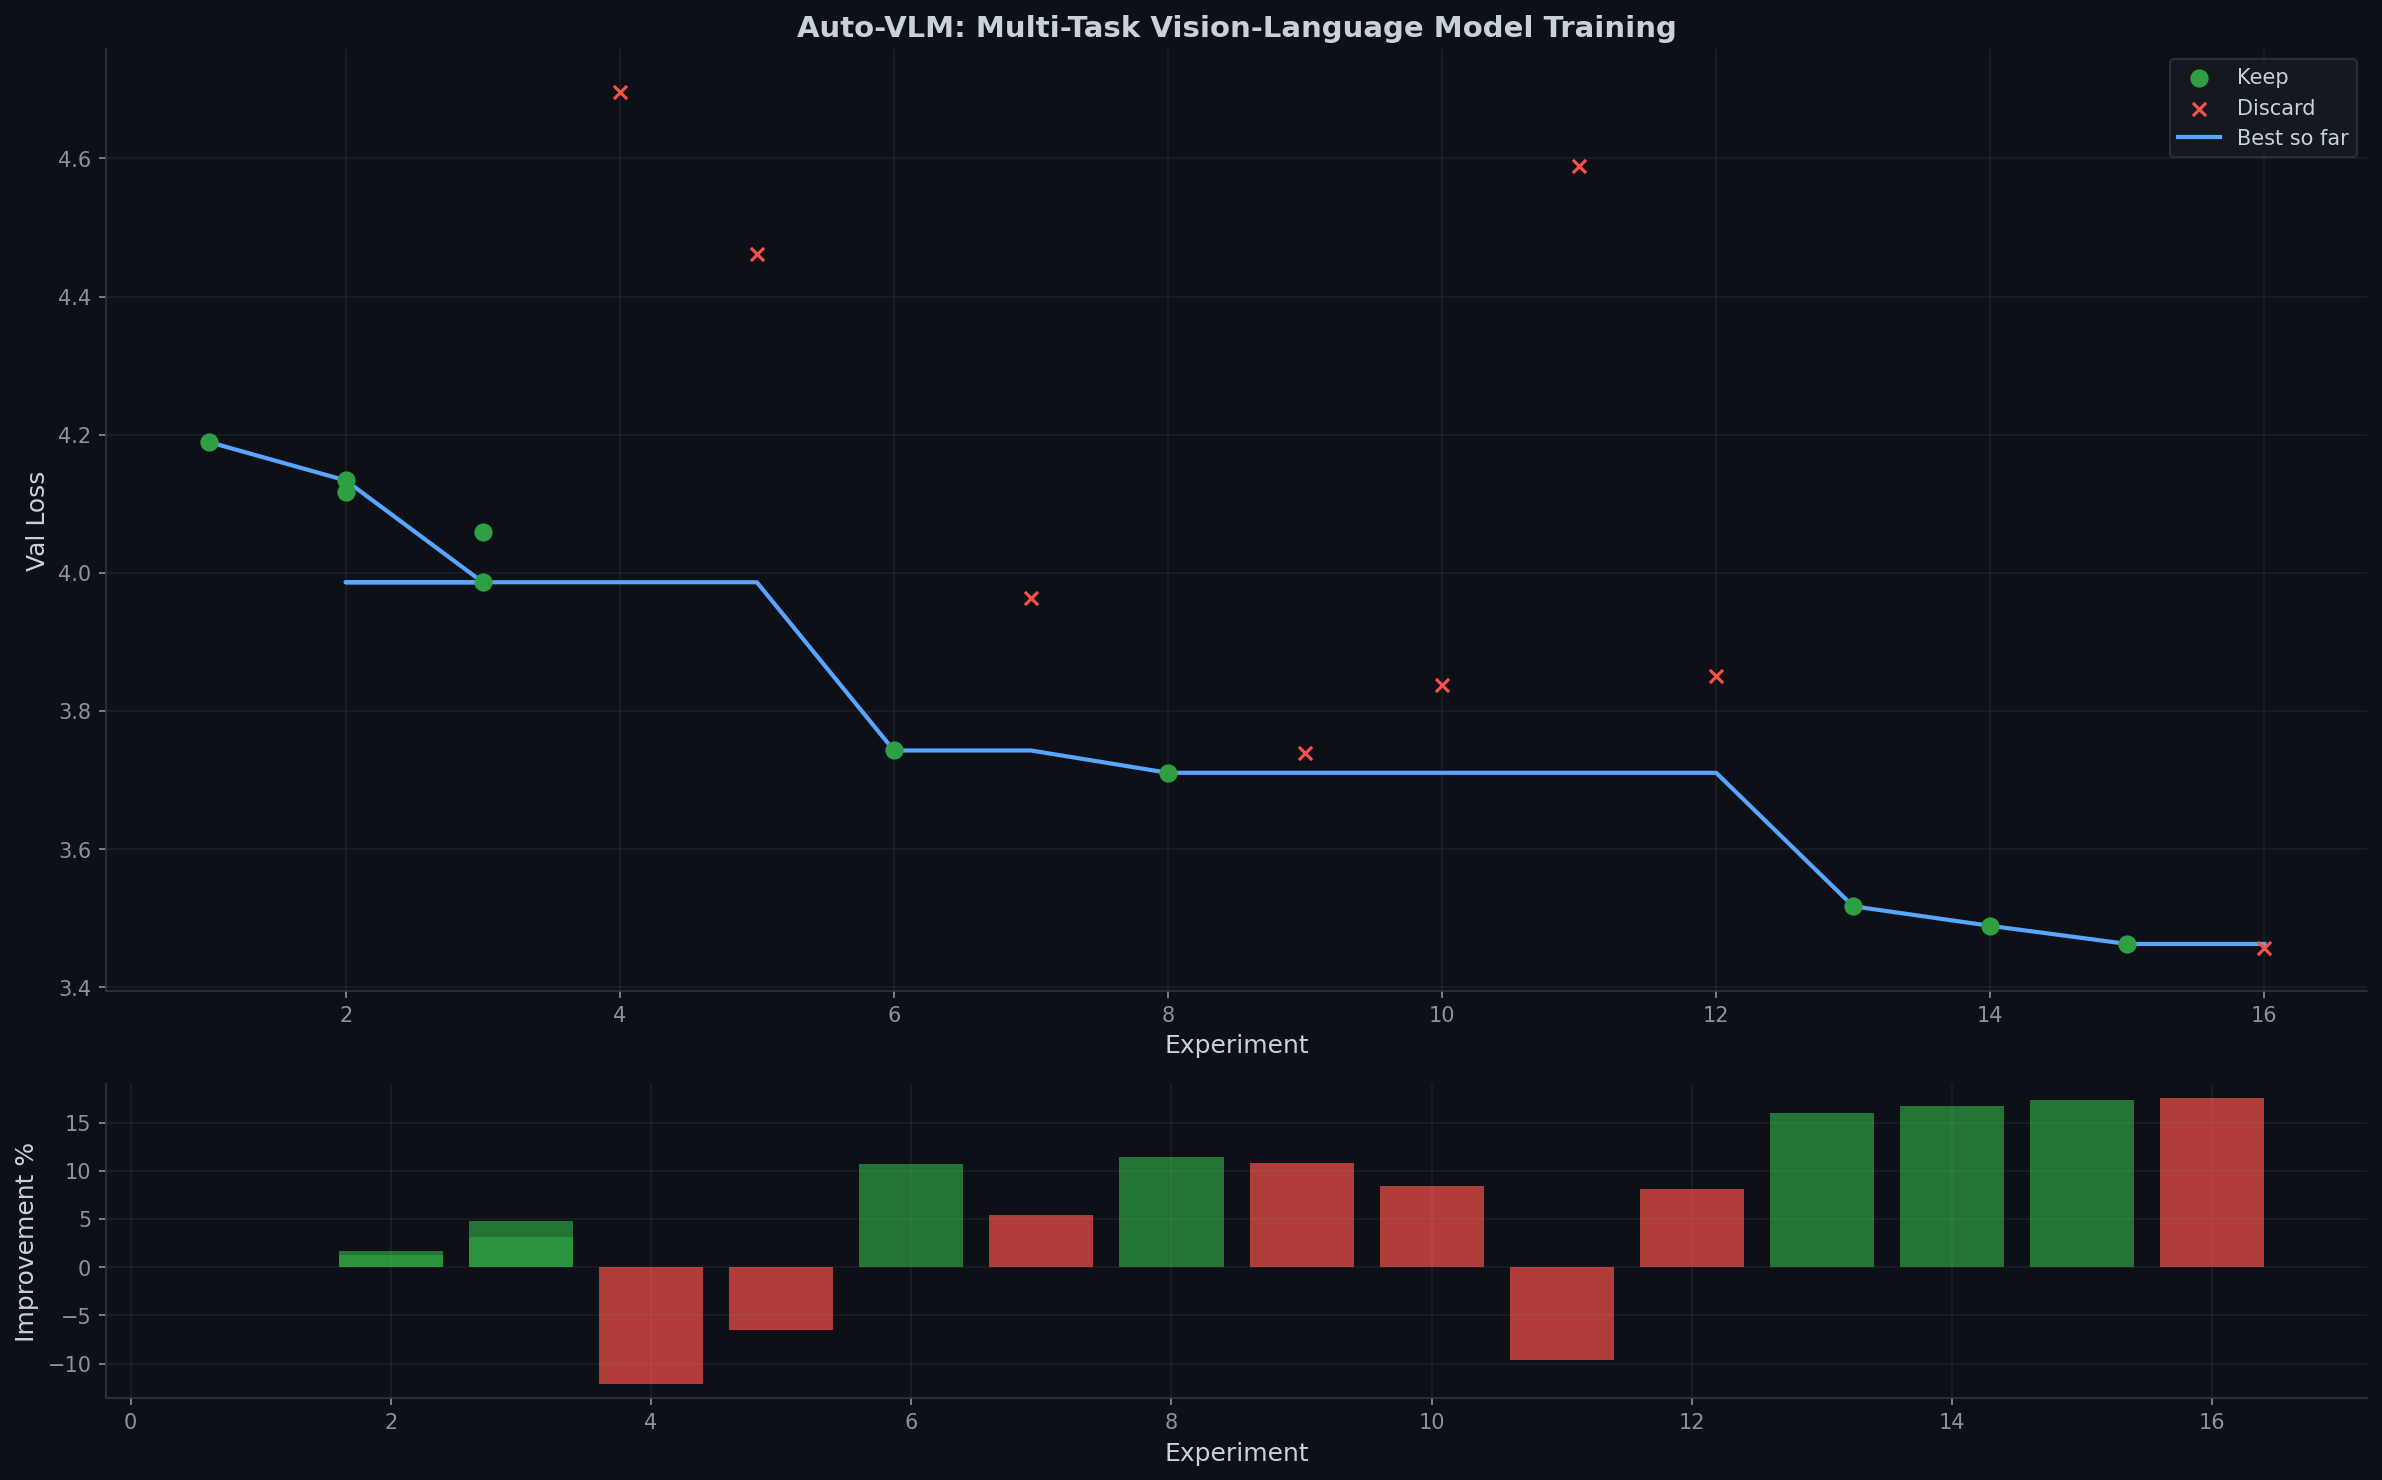
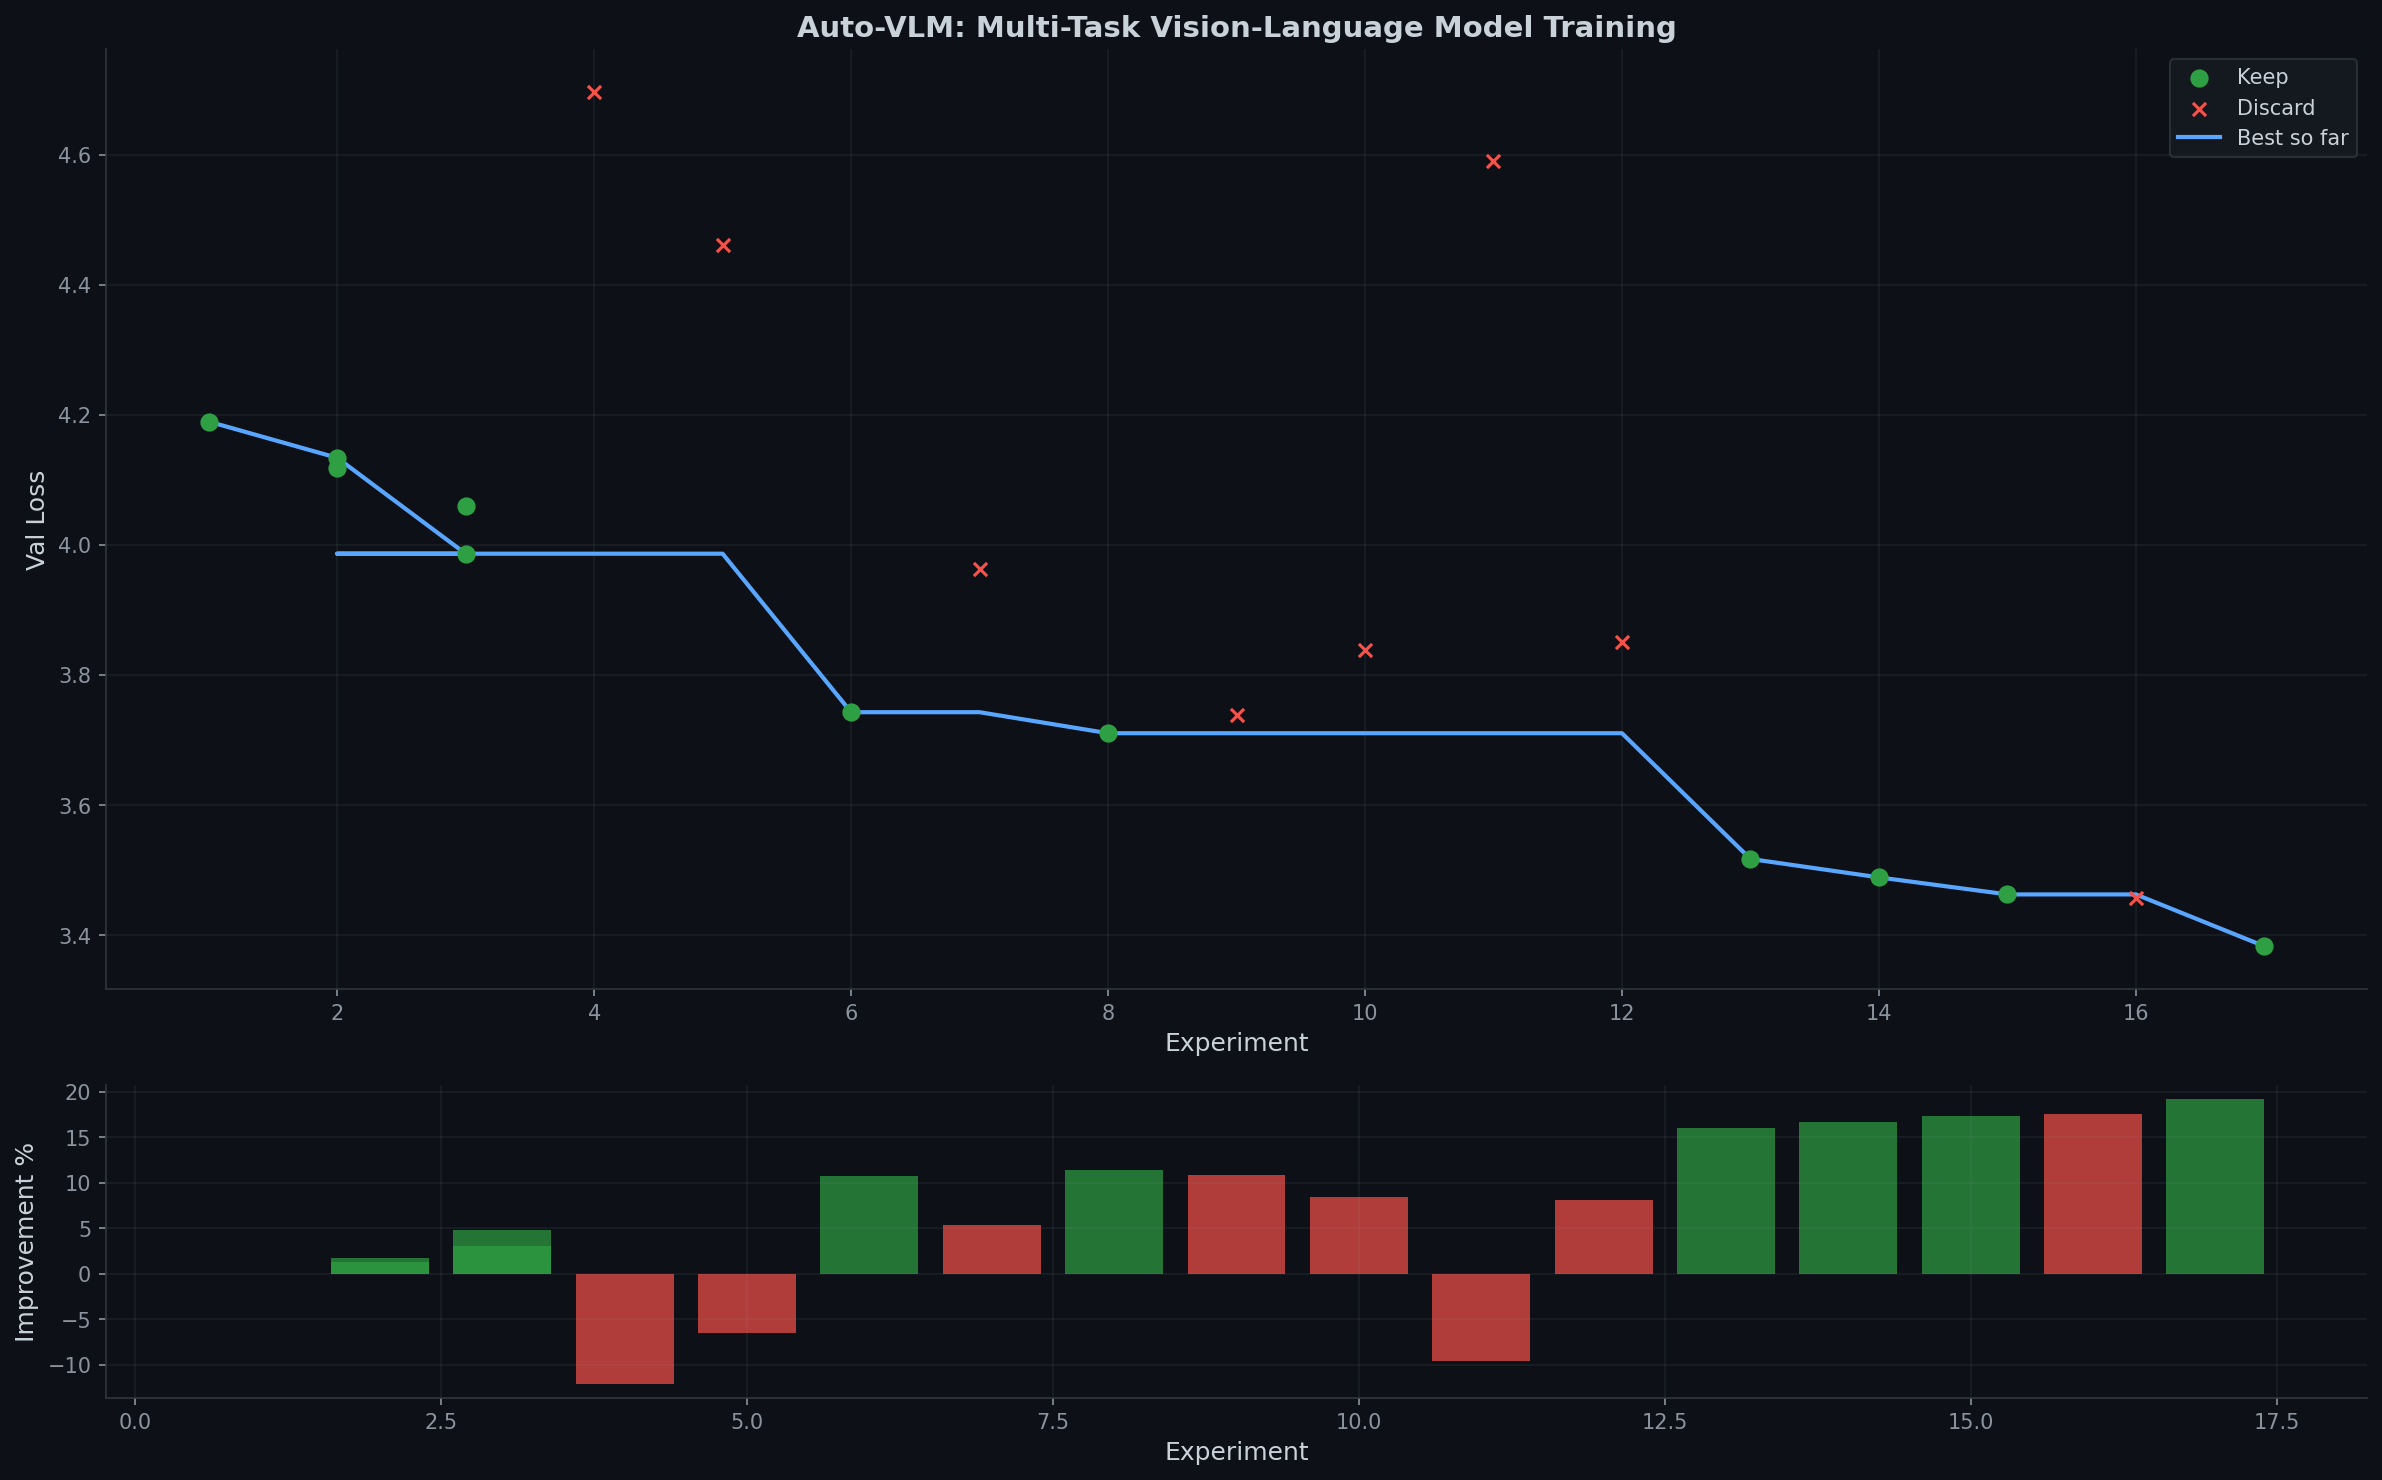
exp 017: 30min training (val=3.3831, 19.2%) NEW BEST

diff --git a/index.html b/index.html
@@ -136,10 +136,10 @@
     </div>
 
     <div class="stats">
-        <div class="stat-card"><div class="label">Experiments</div><div class="value" id="total-exp">18</div></div>
-        <div class="stat-card"><div class="label">Kept</div><div class="value green" id="kept-exp">10</div></div>
-        <div class="stat-card"><div class="label">Best Val Loss</div><div class="value" id="best-loss">3.4627</div></div>
-        <div class="stat-card"><div class="label">Improvement</div><div class="value yellow" id="improvement">17.3%</div></div>
+        <div class="stat-card"><div class="label">Experiments</div><div class="value" id="total-exp">19</div></div>
+        <div class="stat-card"><div class="label">Kept</div><div class="value green" id="kept-exp">11</div></div>
+        <div class="stat-card"><div class="label">Best Val Loss</div><div class="value" id="best-loss">3.3831</div></div>
+        <div class="stat-card"><div class="label">Improvement</div><div class="value yellow" id="improvement">19.2%</div></div>
     </div>
 
     <div class="plot-container">
